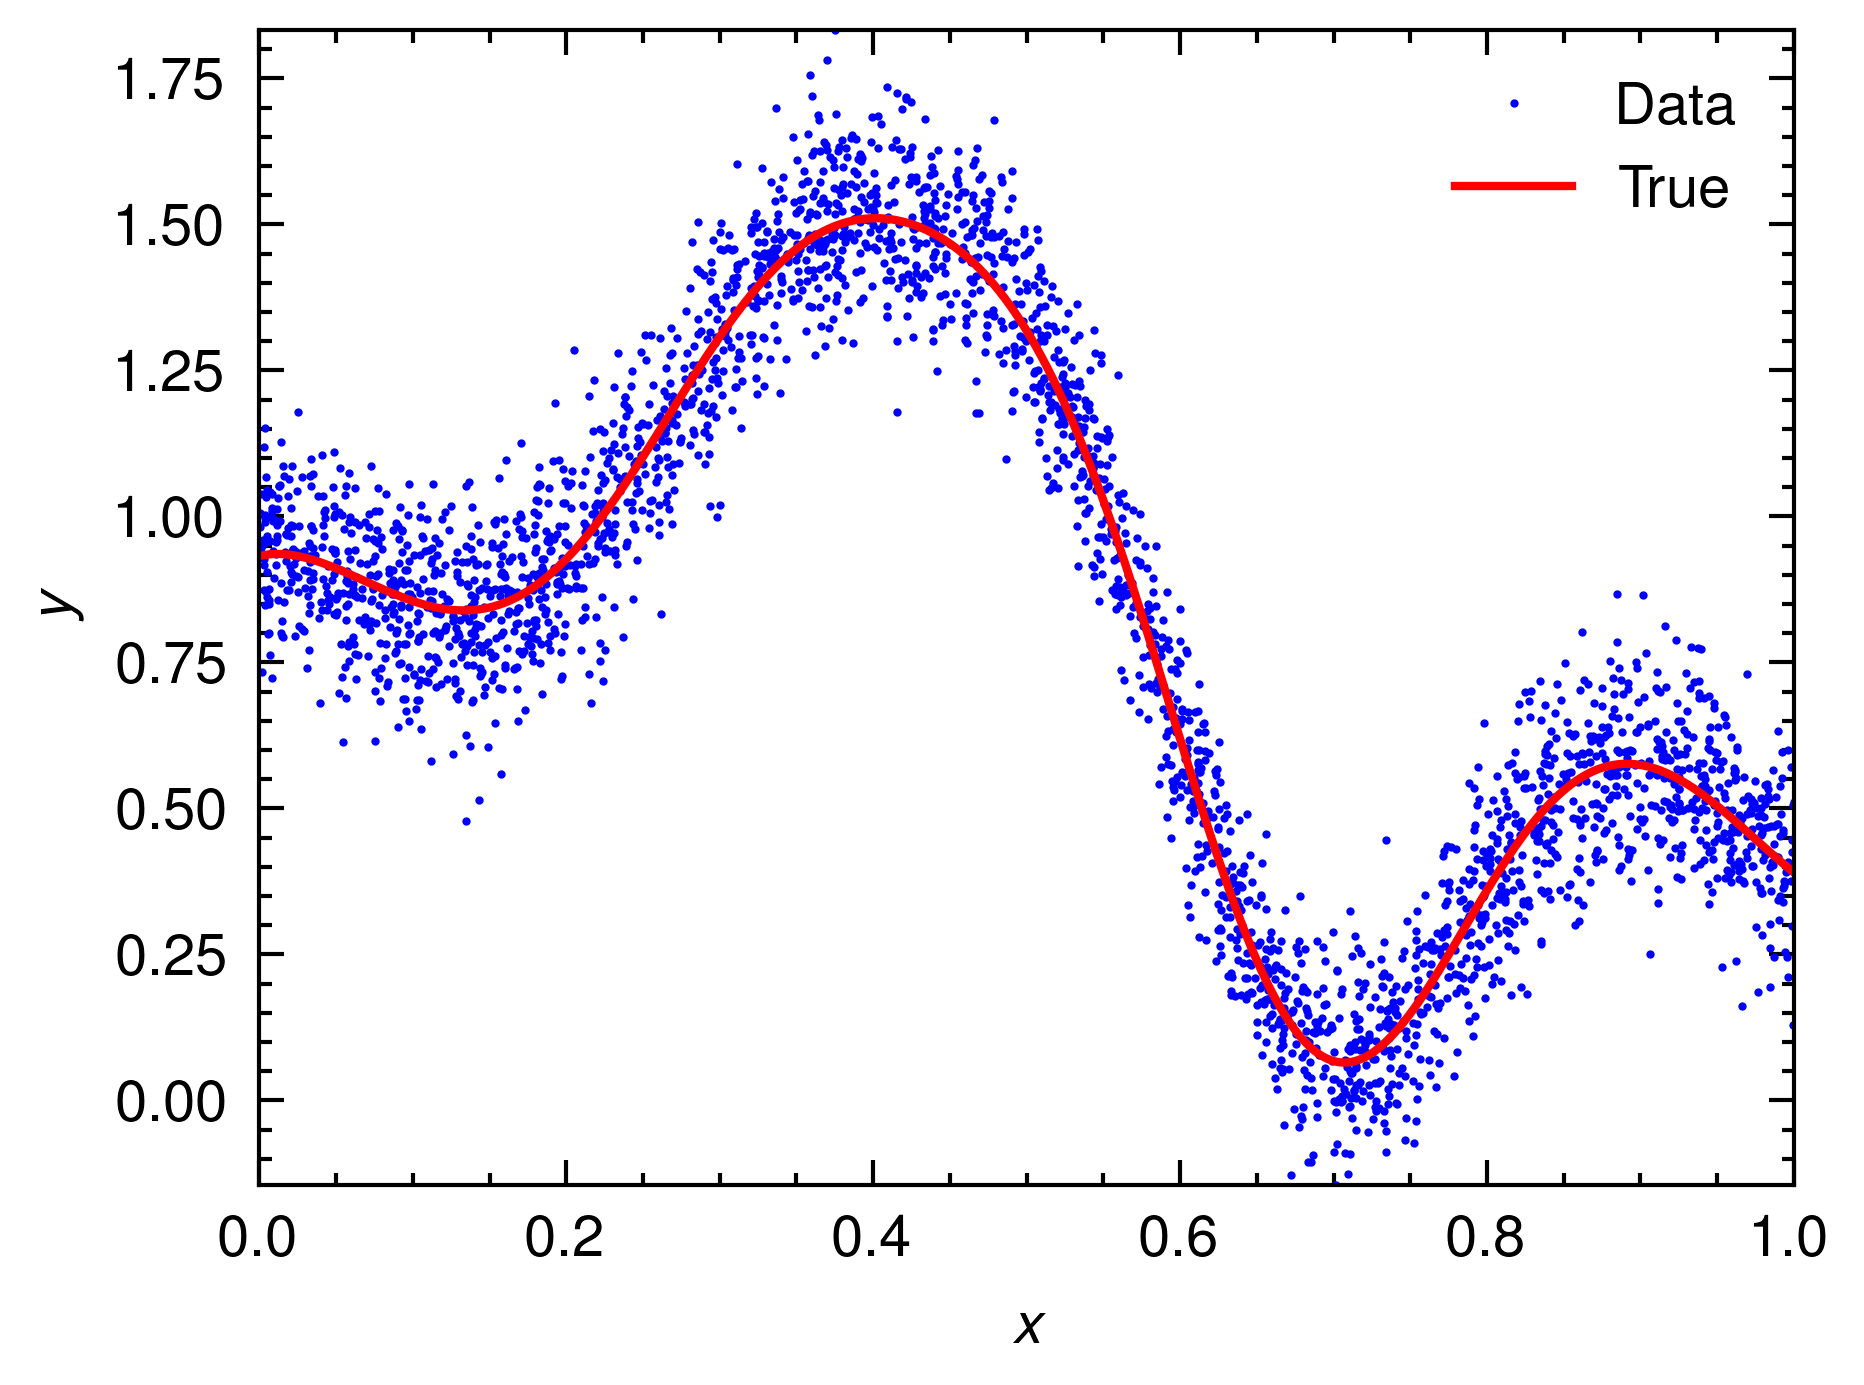
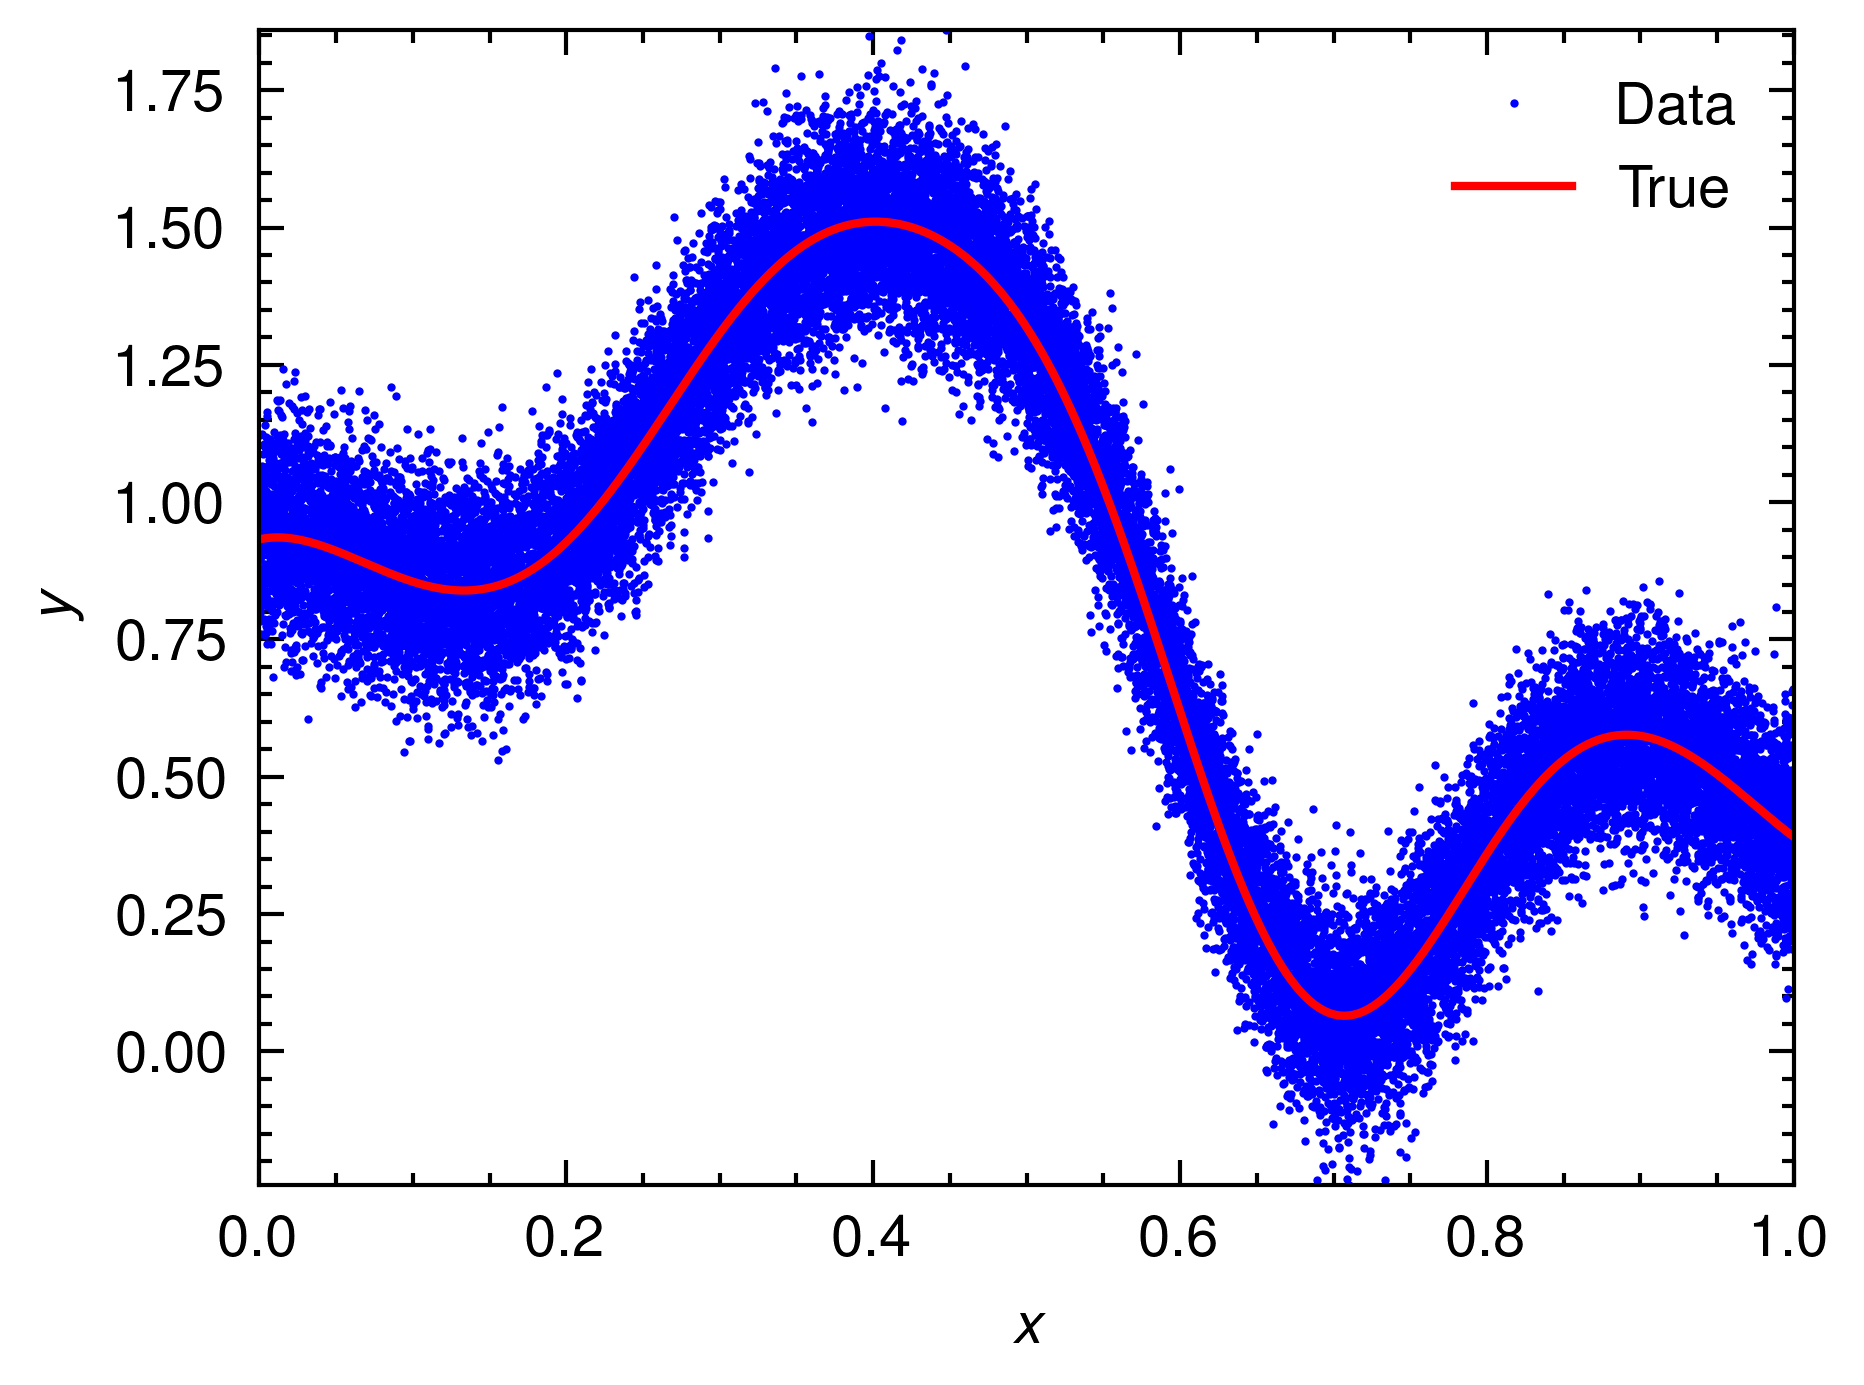
30000 Start

diff --git a/preprocess.py b/preprocess.py
@@ -1,0 +1,29 @@
+import polars as pl
+import numpy as np
+
+
+def split_data(df, ratio=0.8):
+    """
+    Split the data into training and validating sets.
+    """
+    length = len(df)
+    ics = np.random.choice(length, int(length * ratio), replace=False)
+    mask = np.zeros(length, dtype=bool)
+    mask[ics] = True
+    return df.filter(mask), df.filter(~mask)
+
+
+if __name__ == "__main__":
+    # Load the data
+    df = pl.read_parquet("data/data.parquet")
+
+    # Split the data
+    train, val = split_data(df)
+
+    # Save the data
+    train.write_parquet("data/train.parquet")
+    val.write_parquet("data/val.parquet")
+
+    print(train)
+    print(val)
+    print("Data split and saved.")

diff --git a/data/src/main.rs b/data/src/main.rs
@@ -29,9 +29,9 @@ fn create_regression_data(n: usize) -> Result<(DataFrame, DataFrame), Box<dyn st
 
     let uniform = Uniform(0.0, 1.0);
     let normal = Normal(0.0, 0.1);
-    let x_new = uniform.sample_with_rng(&mut rng, n);
+    let x_new = uniform.sample_with_rng(&mut rng, 10 * n);
     let y_true = cs.eval_vec(&x_new);
-    let noise = normal.sample_with_rng(&mut rng, n);
+    let noise = normal.sample_with_rng(&mut rng, 10 * n);
     let y_new = y_true.add_vec(&noise);
 
     let mut df = DataFrame::new(vec![]);
